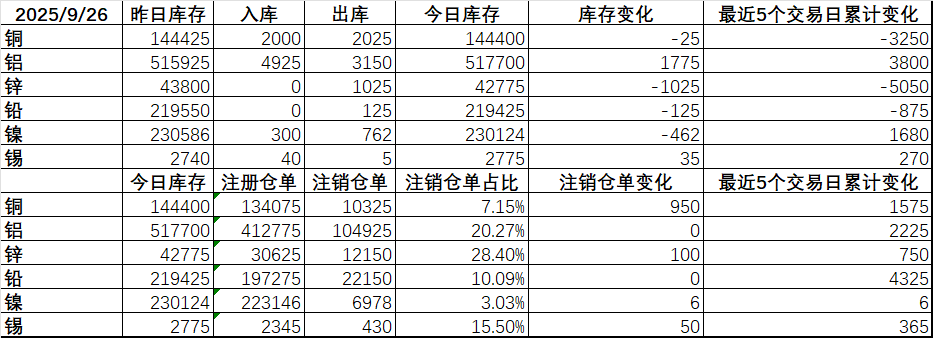
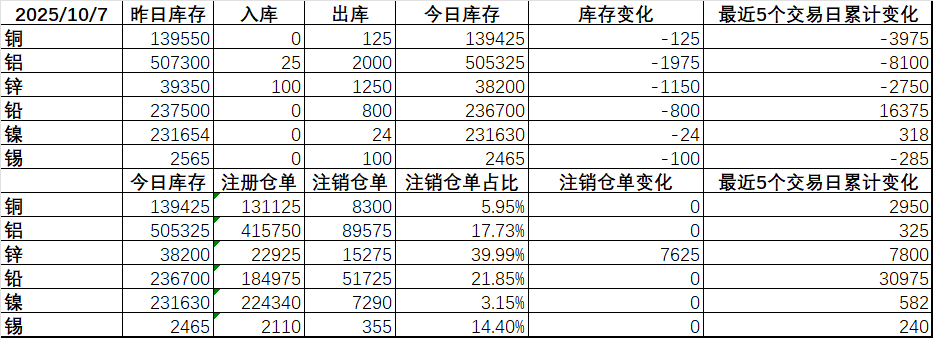
yfwu-main 2025-10-8:0:31:12

diff --git a/锌分析20250928.md b/锌分析20250928.md
@@ -1,6 +1,6 @@
 ## 总结
 
-节中行情总结：LME锌受LME铜带动上涨，3041/2932，涨幅+3.7%。
+节中行情总结：LME锌受LME铜带动上涨，3041/2932，涨幅+3.7%。LME锌节中库存变化不大，但是有8k新增注销仓单，LME0-3挤仓行情继续，节中结构最高走强至75b。
 
 
 - 策略：<font color = red>做空23000以上，目标20000，加工费利空驱动边际减弱（内贸下降，外贸上升），精炼端下游逢跌仍有补库动作叠加节前备库，本周看到季节性去库，近几周内盘锌价容易反弹，适合反弹后加空。</font>内外加工费以修复价差为主（内贸有所回落主要因为内外比价拉大导致内贸矿短期有价格优势，外贸加工费继续上涨），整体趋势不明朗；进入十月冶炼厂检修陆续恢复，港口锌精矿库存减少料检修后冶炼产量恢复快，目前加工端开工小幅回升但镀锌板卷库存累库加速；国外继续去库，内外比值重新走弱。8月交割后LMEC3M重新走强目前维持40b，最近两周新增注销仓单量很少，LME仍在挤仓；年内低点看到$2500以内，内盘20000以内。
